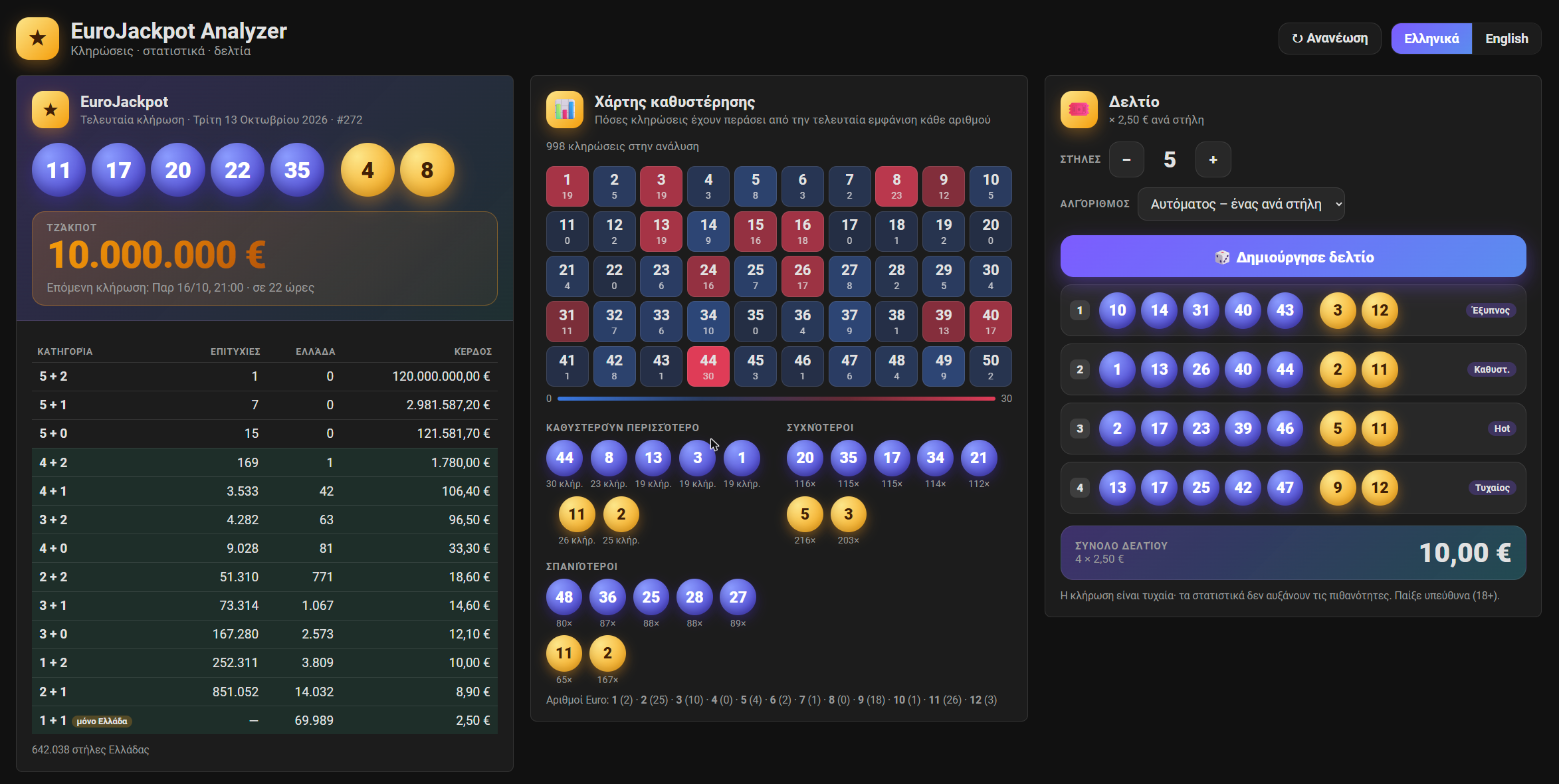
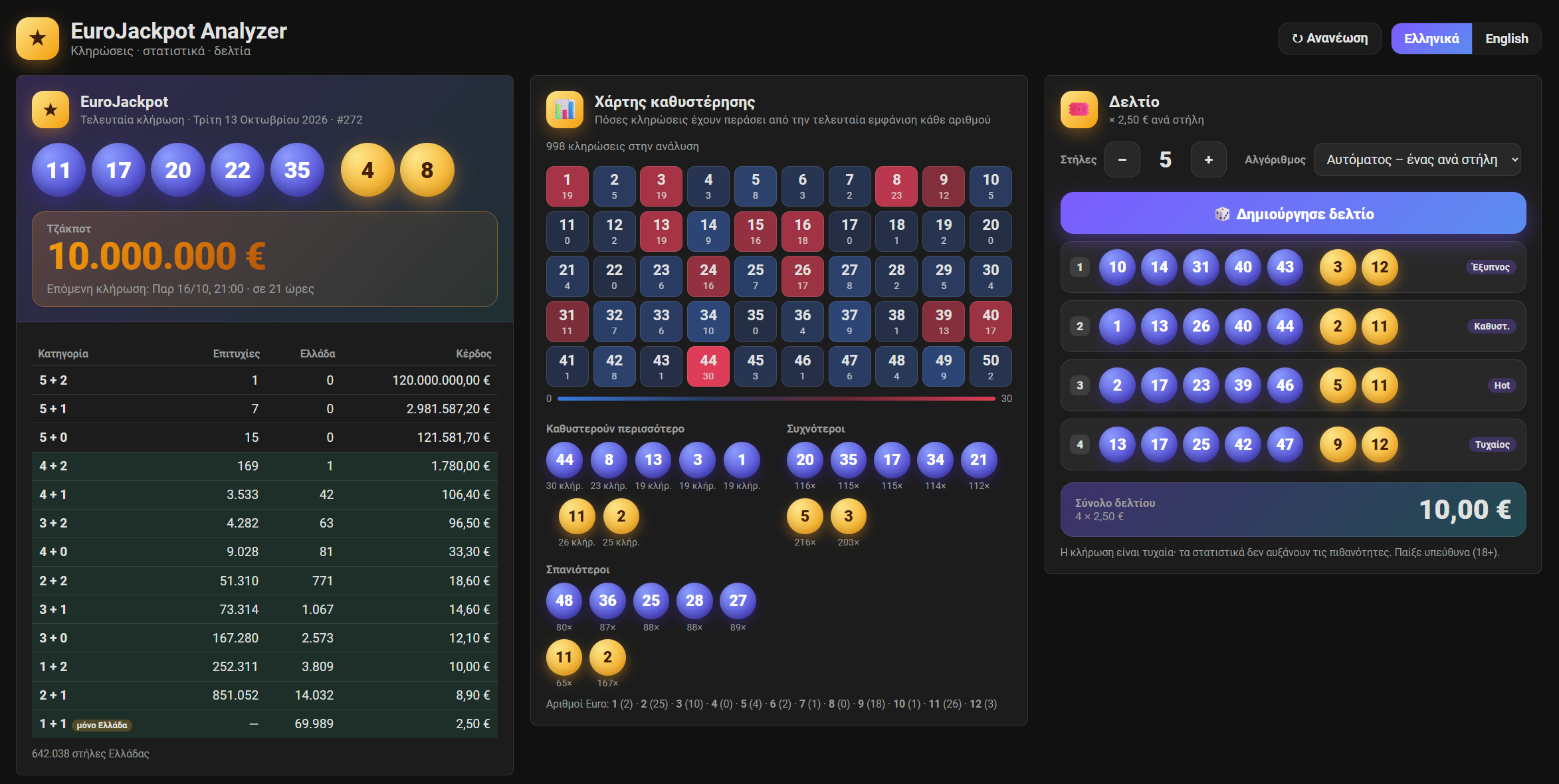
README: panel, cards, language button and re-captured screenshots

diff --git a/README.md b/README.md
@@ -1,24 +1,57 @@
 # EuroJackpot Analyzer για Home Assistant
 
-Custom integration (HACS) που φέρνει το EuroJackpot στο Home Assistant:
+Το EuroJackpot στο Home Assistant, με δικό του **panel στο πλαϊνό μενού** που γεμίζει όλη την οθόνη:
 
-- **Τελευταία κλήρωση**: αριθμοί, επιτυχίες και κέρδη ανά κατηγορία (σύνολο χωρών και Ελλάδα).
-- **Επόμενη κλήρωση και τζάκποτ**.
-- **Στατιστικά αριθμών**: καθυστερημένοι, συχνοί και σπάνιοι αριθμοί (από όλο το ιστορικό από το 2012).
-- **Γεννήτρια δελτίων**: service που φτιάχνει δελτίο 1–12 στηλών με αλγόριθμο της επιλογής σου και επιστρέφει τις στήλες και το συνολικό κόστος (2,50 € ανά στήλη).
+- **Τελευταία κλήρωση**: αριθμοί, επιτυχίες και κέρδη ανά κατηγορία (σύνολο χωρών και Ελλάδα) και **μεγάλο τζάκποτ**.
+- **Επόμενη κλήρωση** με αντίστροφη μέτρηση.
+- **Χάρτης καθυστέρησης** των 50 αριθμών με χρώματα, και κατατάξεις: αριθμοί που καθυστερούν, συχνότεροι, σπανιότεροι.
+- **Γεννήτρια δελτίων** 1–12 στηλών με 7 αλγορίθμους ή αυτόματη επιλογή, με σύνολο κόστους (2,50 € ανά στήλη).
+- **Ελληνικά / English** με κουμπί που αλλάζει αμέσως.
 
 Δεν χρειάζεται λογαριασμός ούτε API key. Τα δεδομένα έρχονται από την Allwyn και την επίσημη υπηρεσία του EuroJackpot.
-Το ιστορικό είναι ήδη ενσωματωμένο, οπότε δουλεύει αμέσως και χωρίς internet.
+Το ιστορικό από το 2012 είναι ήδη ενσωματωμένο, οπότε δουλεύει αμέσως και χωρίς internet.
 
 Είναι η αδελφή ενσωμάτωση της εφαρμογής Windows
-[EuroJackpot Analyzer](https://github.com/VeZReVouLiS/EuroJackpot-Analyzer): ίδιοι αλγόριθμοι, ίδια στατιστικά.
+[EuroJackpot Analyzer](https://github.com/VeZReVouLiS/EuroJackpot-Analyzer): ίδιοι αλγόριθμοι, ίδια στατιστικά, ίδια εμφάνιση.
+
+![Το panel EuroJackpot Analyzer](docs/images/01-panel.png)
 
 ## Εγκατάσταση (HACS)
 1. HACS → ⋮ → **Custom repositories** → πρόσθεσε `https://github.com/VeZReVouLiS/EuroJackpot-Analyzer-HA` με τύπο **Integration**.
 2. Κατέβασε το **EuroJackpot Analyzer** και κάνε επανεκκίνηση του Home Assistant.
 3. **Ρυθμίσεις → Συσκευές και υπηρεσίες → Προσθήκη ενσωμάτωσης → EuroJackpot Analyzer**. Ένα κλικ, χωρίς ρυθμίσεις.
+4. Στο πλαϊνό μενού εμφανίζεται η καταχώρηση **EuroJackpot Analyzer**. Ανοίγει το panel.
 
 Χειροκίνητα: αντίγραψε τον φάκελο `custom_components/eurojackpot_analyzer` στο `config/custom_components/`.
+
+> **Μετά από κάθε ενημέρωση** κάνε επανεκκίνηση του Home Assistant και ανανέωσε τη σελίδα με **Ctrl+F5**,
+> ώστε ο browser να πάρει το νέο πρόγραμμα του panel.
+
+![Η ενσωμάτωση στις Συσκευές και υπηρεσίες](docs/images/04-integration.png)
+
+## Το panel
+Το panel προσαρμόζεται στο μέγεθος του παραθύρου: σε μεγάλη οθόνη PC τα γράμματα, οι αριθμοί και τα πεδία μεγαλώνουν και οι τρεις στήλες
+(κλήρωση, στατιστικά, δελτίο) γεμίζουν όλο το πλάτος. Σε μικρότερο παράθυρο ή κινητό περνούν σε δύο ή μία στήλη.
+
+- **Ελληνικά / English**: το κουμπί πάνω δεξιά αλλάζει τη γλώσσα αμέσως, χωρίς refresh, και θυμάται την επιλογή σου στον browser.
+  Αν δεν έχεις διαλέξει, χρησιμοποιείται η γλώσσα του χρήστη του Home Assistant.
+- **Ανανέωση**: ζητά αμέσως νέα δεδομένα.
+- Ο **χάρτης καθυστέρησης** δείχνει για κάθε αριθμό πόσες κληρώσεις έχουν περάσει από την τελευταία φορά που βγήκε (κόκκινο = καθυστερεί περισσότερο). Με το ποντίκι πάνω σε έναν αριθμό βλέπεις πόσες φορές έχει βγει συνολικά.
+
+![Το panel στα αγγλικά](docs/images/02-panel-en.png)
+
+## Κάρτες για τα δικά σου dashboards
+Οι ίδιες οθόνες είναι διαθέσιμες και ως κάρτες Lovelace. Φορτώνονται αυτόματα από το integration, χωρίς καμία ρύθμιση πόρων:
+
+| Κάρτα | Τι δείχνει |
+|---|---|
+| `custom:eurojackpot-analyzer-last-draw-card` | τελευταία κλήρωση, τζάκποτ, επόμενη κλήρωση, πίνακας κερδών (`show_prizes: false` για να κρυφτεί) |
+| `custom:eurojackpot-analyzer-stats-card` | χάρτης καθυστέρησης και κατατάξεις |
+| `custom:eurojackpot-analyzer-ticket-card` | γεννήτρια δελτίου (`columns`, `algorithm` για τις αρχικές τιμές) |
+
+Όλες δέχονται `language: el` ή `en` αν θέλεις σταθερή γλώσσα. Έτοιμο παράδειγμα dashboard: [docs/dashboard.yaml](docs/dashboard.yaml).
+
+![Οι κάρτες σε dashboard](docs/images/03-dashboard-cards.png)
 
 ## Οντότητες
 | Οντότητα | Τιμή | Attributes |
@@ -26,12 +59,14 @@ Custom integration (HACS) που φέρνει το EuroJackpot στο Home Assis
 | `sensor.eurojackpot_analyzer_last_draw` | ημερομηνία τελευταίας κλήρωσης | `numbers`, `euro_numbers`, `text`, `draw_number`, `prizes` (νικητές όλων των χωρών / Ελλάδας και κέρδος ανά κατηγορία), `columns_greece`, `columns_all_countries` |
 | `sensor.eurojackpot_analyzer_next_draw` | ημερομηνία και ώρα επόμενης κλήρωσης | `draw_number` |
 | `sensor.eurojackpot_analyzer_jackpot` | τζάκποτ σε € | `next_draw` |
-| `sensor.eurojackpot_analyzer_most_overdue_numbers` | οι 5 αριθμοί που καθυστερούν περισσότερο | `main` και `euro` με `draws_since`, `longest_gap`, `last_seen` |
+| `sensor.eurojackpot_analyzer_most_overdue_numbers` | οι 5 αριθμοί που καθυστερούν περισσότερο | `main` και `euro` με `draws_since`, `longest_gap`, `last_seen`, ο πλήρης πίνακας `all` |
 | `sensor.eurojackpot_analyzer_most_frequent_numbers` | οι 5 συχνότεροι αριθμοί | `main` και `euro` με `count`, `percent` |
 | `sensor.eurojackpot_analyzer_least_frequent_numbers` | οι 5 σπανιότεροι αριθμοί | όπως παραπάνω |
 | `sensor.eurojackpot_analyzer_generated_ticket` | στήλες του τελευταίου δελτίου | `columns`, `total_cost`, `algorithm`, `generated_at` |
 
-Τα ονόματα εμφανίζονται στα ελληνικά ή στα αγγλικά ανάλογα με τη γλώσσα του HA.
+Τα ονόματα εμφανίζονται στα ελληνικά ή στα αγγλικά ανάλογα με τη γλώσσα του HA (τα entity IDs είναι πάντα τα αγγλικά της λίστας).
+
+![Οι οντότητες της συσκευής](docs/images/05-device.png)
 
 ## Service `eurojackpot_analyzer.generate_ticket`
 | Πεδίο | Τιμές | Προεπιλογή |
@@ -54,22 +89,11 @@ data:
 response_variable: ticket
 ```
 
+![Εκτέλεση του service](docs/images/06-service.png)
+
 > Η κλήρωση είναι τυχαία. Τα στατιστικά δεν αυξάνουν τις πιθανότητες νίκης. Παίξε υπεύθυνα (18+).
 
-## Παραδείγματα
-**Κάρτα Markdown με την τελευταία κλήρωση**
-
-```yaml
-type: markdown
-title: EuroJackpot Analyzer
-content: >
-  **{{ states('sensor.eurojackpot_analyzer_last_draw') }}**
-  {{ state_attr('sensor.eurojackpot_analyzer_last_draw', 'text') }}
-
-  Επόμενη: {{ as_timestamp(states('sensor.eurojackpot_analyzer_next_draw')) | timestamp_custom('%a %d/%m %H:%M') }}
-  · Τζάκποτ {{ states('sensor.eurojackpot_analyzer_jackpot') | int | round(0) | string }} €
-```
-
+## Παραδείγματα αυτοματισμών
 **Ειδοποίηση όταν βγει νέα κλήρωση**
 
 ```yaml
@@ -80,7 +104,7 @@ triggers:
 actions:
   - action: notify.notify
     data:
-      title: EuroJackpot Analyzer
+      title: EuroJackpot
       message: >
         Κλήρωση {{ states('sensor.eurojackpot_analyzer_last_draw') }}:
         {{ state_attr('sensor.eurojackpot_analyzer_last_draw', 'text') }}
@@ -115,7 +139,11 @@ actions:
 αυτόματα από το [EuroJackpot-Analyzer](https://github.com/VeZReVouLiS/EuroJackpot-Analyzer) (`tools/sync_ha.ps1`). Μην τα
 αλλάζεις εδώ.
 
+Το front-end είναι ένα αρχείο χωρίς framework και χωρίς build (`www/eurojackpot-analyzer-card.js`). Για να το δεις χωρίς Home Assistant:
+`python tools/make_preview_fixture.py` και άνοιξε το `tools/preview/index.html` (παράμετροι στο hash: `#view=panel&lang=en&theme=light`).
+
 ```bash
 python -m venv .venv && .venv/bin/pip install pytest-homeassistant-custom-component
 .venv/bin/python -m pytest -q
 ```
+Το Home Assistant core δεν τρέχει σε Windows· τα tests τρέχουν στο GitHub Actions (tests, hassfest και έλεγχος HACS).
